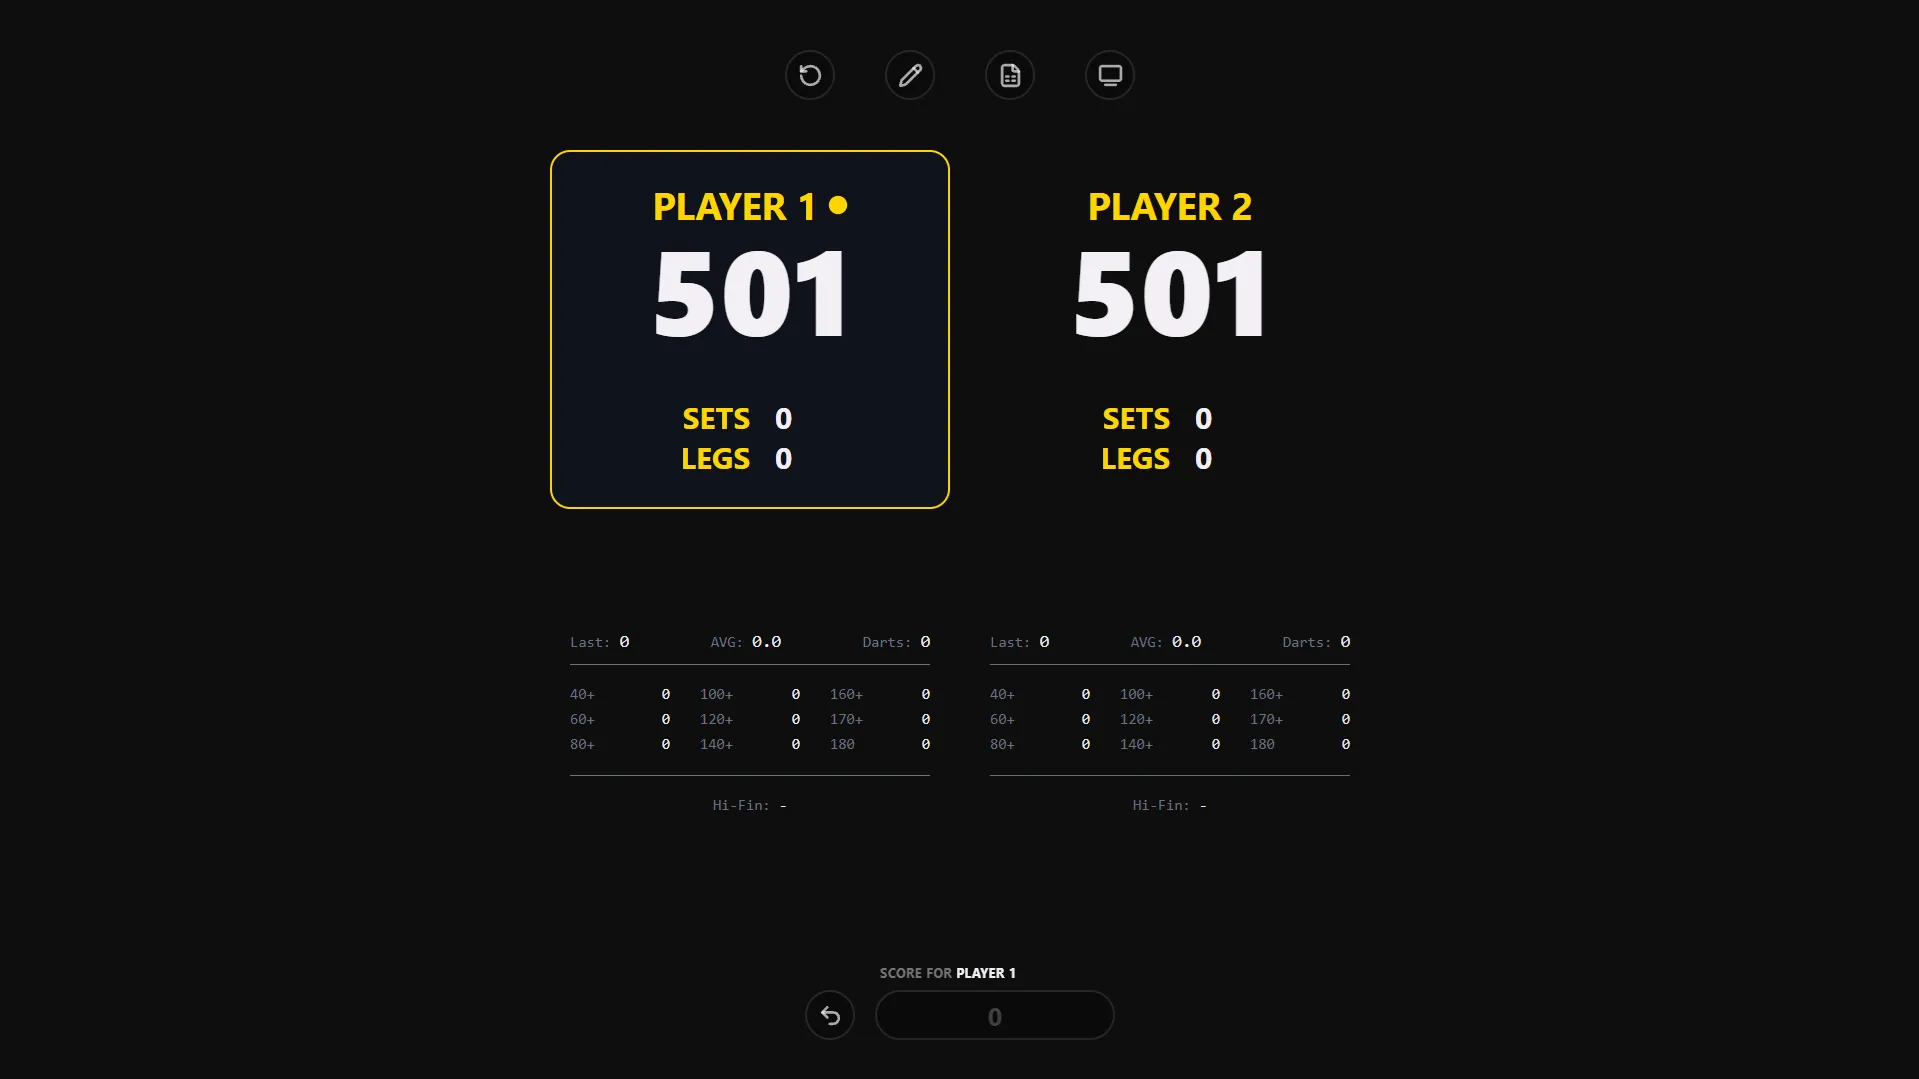
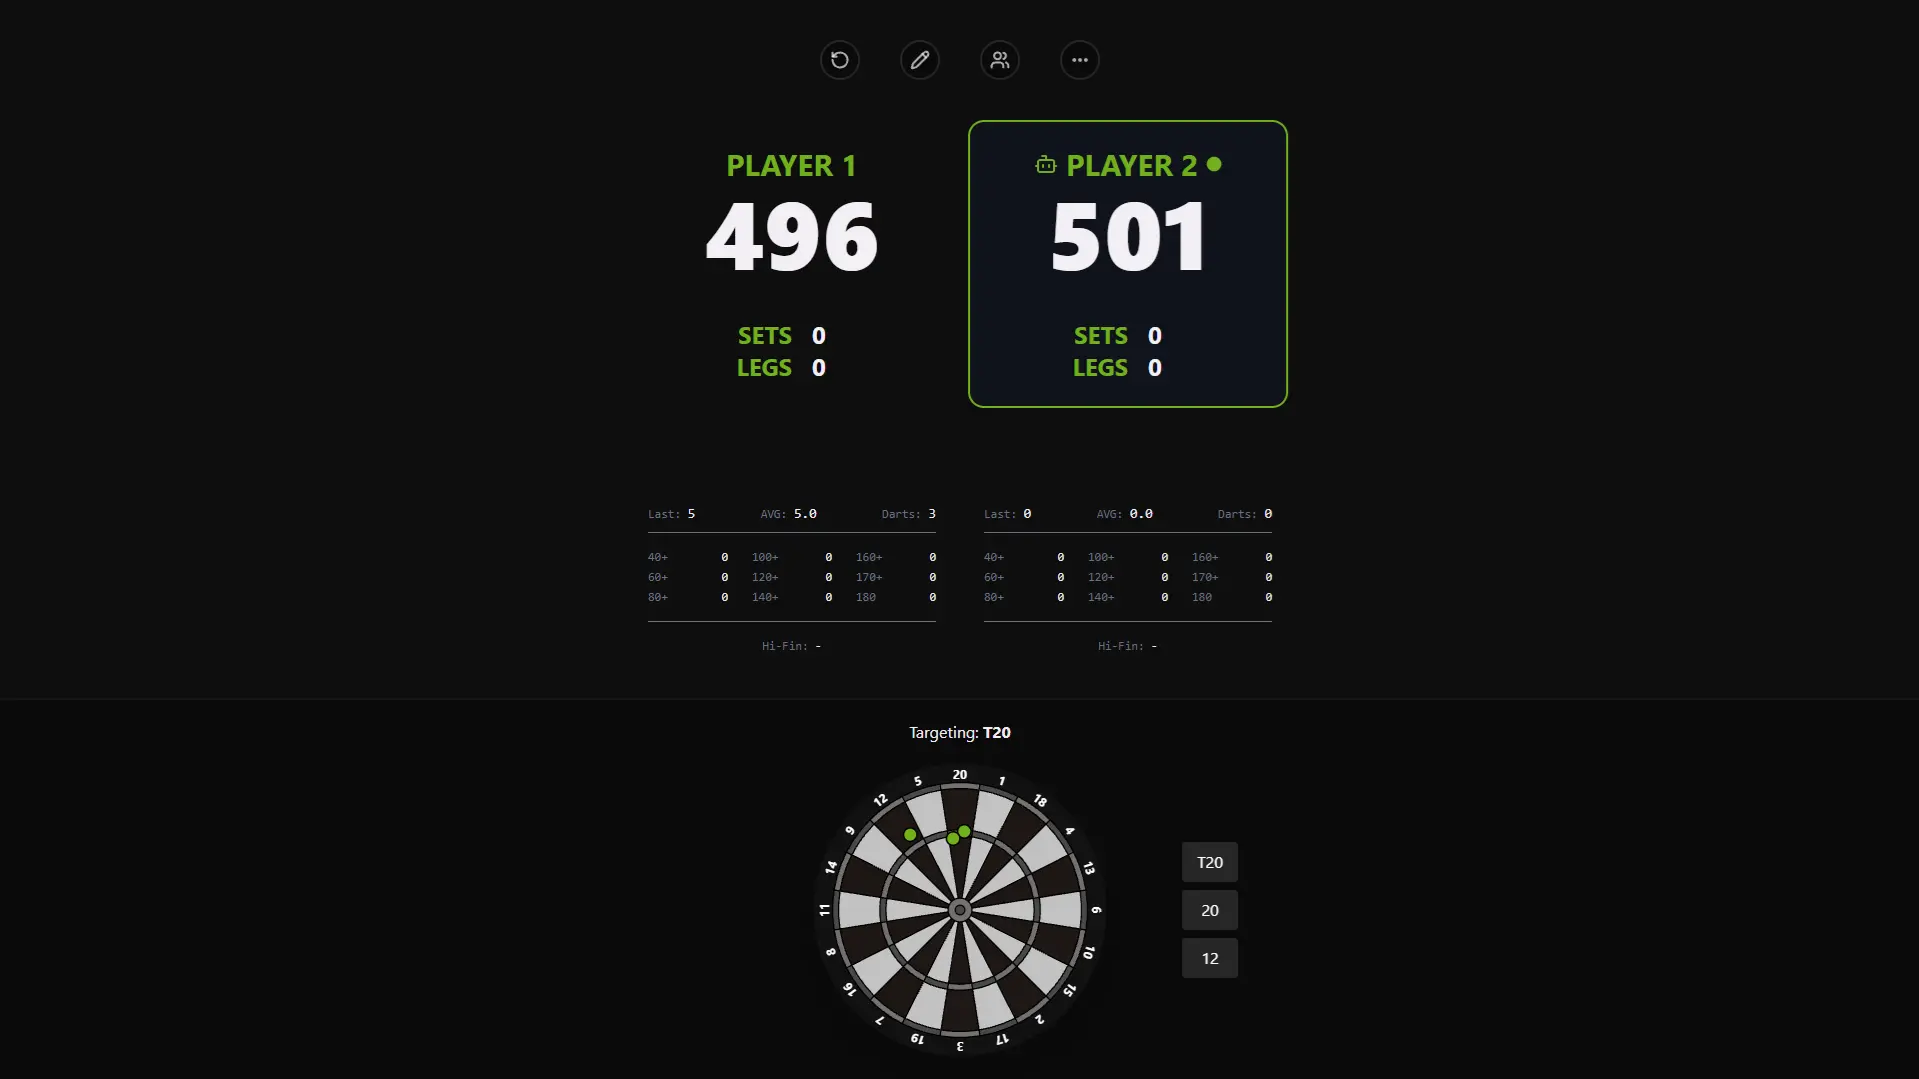
Update info

diff --git a/app/[lang]/components/Hero.tsx b/app/[lang]/components/Hero.tsx
@@ -1,5 +1,6 @@
 import Link from 'next/link';
 import Image from 'next/image';
+import HeroButton from './HeroButton';
 
 type Dictionary = typeof import('../../../dictionaries/en.json');
 
@@ -23,23 +24,9 @@ export default function Hero({ dict } : { dict: Dictionary }) {
 
             <div className='flex mt-20 gap-2'>
 
-                <Link href="https://github.com/lukasus55" target='_blank'>
-                    <button className="group flex items-center text-xl py-2 px-2.5 bg-foreground text-background font-semibold rounded-full transition-all cursor-pointer">
-                        <Image src="/github.svg" width={24} height={24} alt={'Github'}/> 
-                        <span className="max-w-0 overflow-hidden whitespace-nowrap transition-all duration-300 ease-in-out group-hover:max-w-xs group-hover:ml-2">
-                            Github
-                        </span>
-                    </button>
-                </Link>
-
-                <Link href="mailto:lukas.kostyk@gmail.com">
-                    <button className="group flex items-center text-xl py-2 px-2.5 bg-foreground text-background font-semibold rounded-full transition-all cursor-pointer">
-                        <Image src="/mail.svg" width={24} height={24} alt={'Github'}/> 
-                        <span className="max-w-0 overflow-hidden whitespace-nowrap transition-all duration-300 ease-in-out group-hover:max-w-xs group-hover:ml-2">
-                            E-mail
-                        </span>
-                    </button>
-                </Link>
+                <HeroButton linkUrl='https://github.com/lukasus55' text='Github' imgUrl='/github.svg' imgAlt='Github icon'/>
+                <HeroButton linkUrl='https://www.linkedin.com/in/lkostyk/' text='LinkedIn' imgUrl='/linkedin.svg' imgAlt='LinkedIn icon'/>
+                <HeroButton linkUrl='mailto:lukas.kostyk@gmail.com' text='E-mail' imgUrl='/mail.svg' imgAlt='E-Mail icon'/>
 
             </div>
 

diff --git a/app/[lang]/components/HeroButton.tsx b/app/[lang]/components/HeroButton.tsx
@@ -1,0 +1,23 @@
+import Image from "next/image";
+import Link from "next/link";
+
+interface HeroButtonProps {
+    linkUrl:string,
+    text: string,
+    imgUrl:string,
+    imgAlt:string,
+    imgSize?:number
+}
+
+export default function HeroButton({linkUrl, text, imgUrl, imgAlt, imgSize=24} : HeroButtonProps){
+    return(
+        <Link href={linkUrl} target="_blank">
+            <button className="group flex items-center text-xl py-2 px-2.5 bg-foreground text-background font-semibold rounded-full transition-all cursor-pointer">
+                <Image src={imgUrl} width={imgSize} height={imgSize} alt={imgAlt}/>
+                <span className="max-w-0 overflow-hidden whitespace-nowrap transition-all duration-300 ease-in-out group-hover:max-w-xs group-hover:ml-2">
+                    {text}
+                </span>
+            </button>
+        </Link>
+    )
+}

diff --git a/app/[lang]/components/Projects.tsx b/app/[lang]/components/Projects.tsx
@@ -37,7 +37,7 @@ export default function Projects({ dict } : { dict: Dictionary }) {
                         title = {dict.projects.dartES.title}
                         description = {dict.projects.dartES.description}
                         tags = {['react', 'tailwind', 'typescript']}
-                        websiteLink = 'https://lukasus55.github.io/dartES/'
+                        websiteLink = 'https://dart.kkol.pl/'
                         githubLink = 'https://github.com/lukasus55/dartES'
                         imgSrc = '/dartes-mockup.webp'
                         dict={dict}
